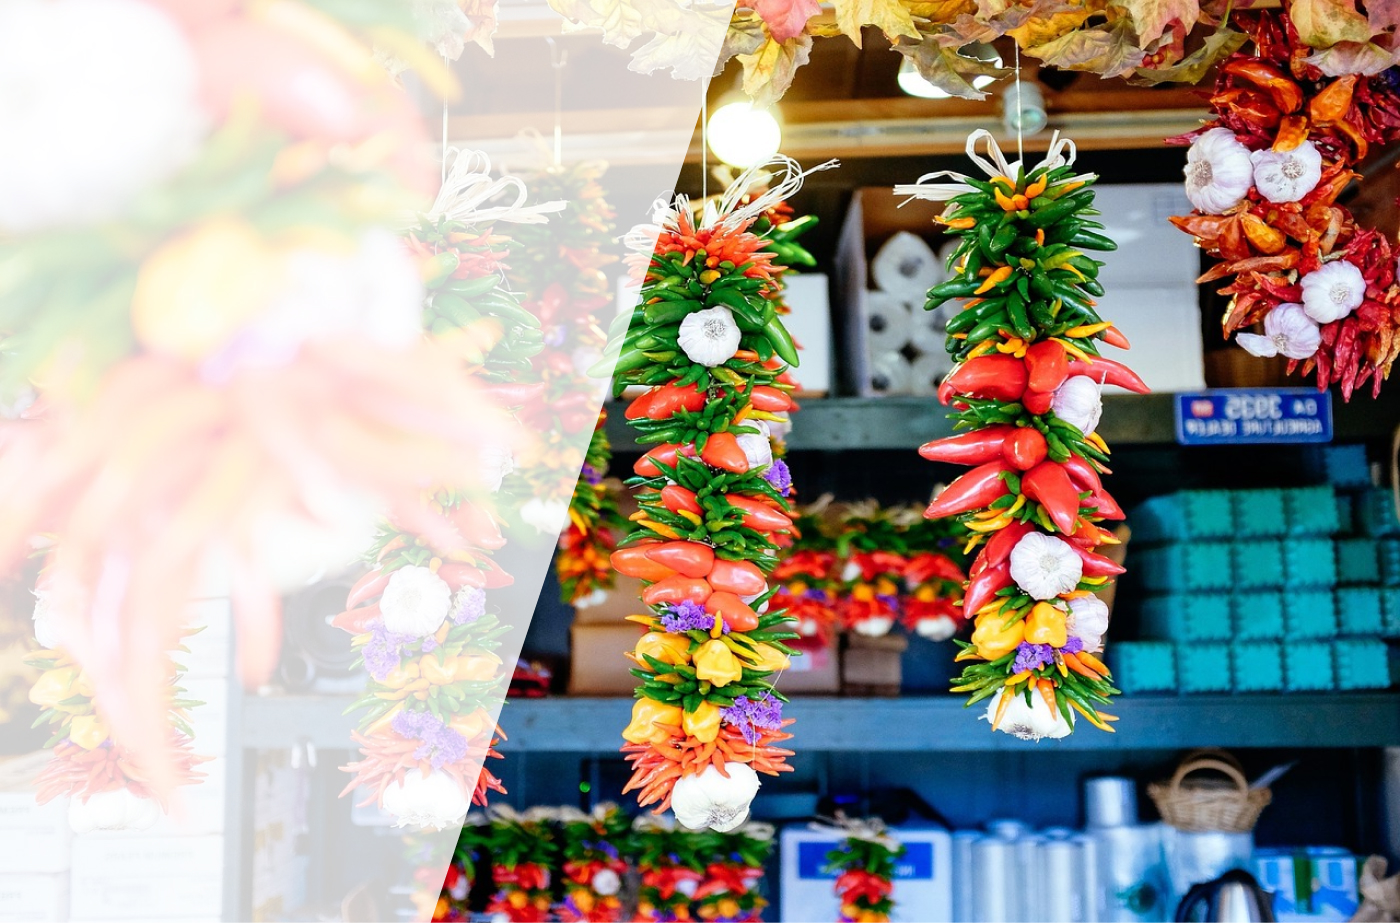
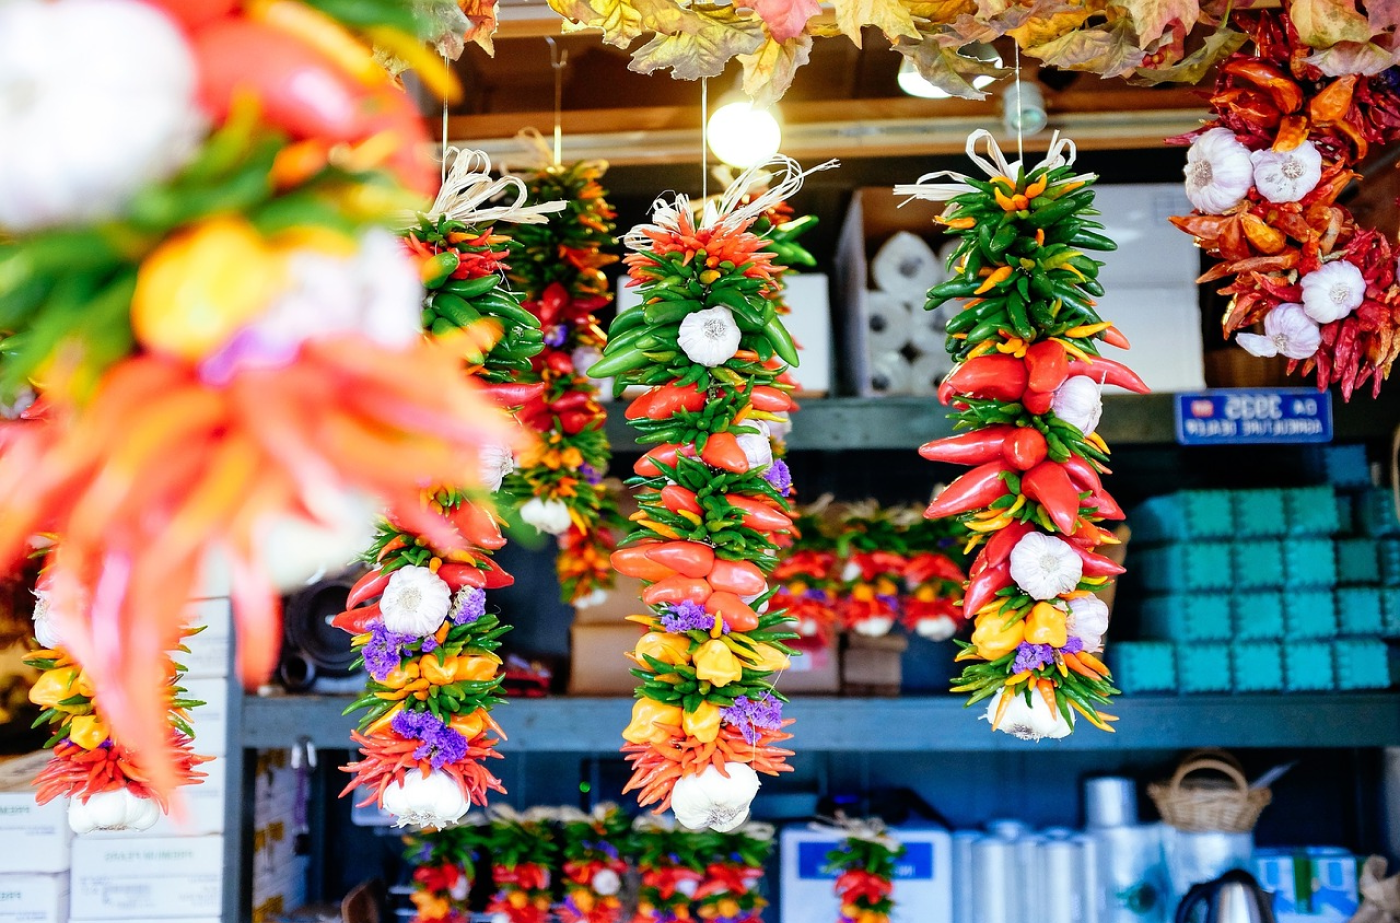
slider fix style - overlay

diff --git a/index.html b/index.html
@@ -55,8 +55,14 @@
             <section class="slides overflow-hidden">
                 <section class="slides-nav">
                     <nav class="slides-nav__nav">
-                        <button class="slides-nav__prev js-prev">Önceki</button>
-                        <button class="slides-nav__next js-next">Sonraki</button>
+                        <button class="slides-nav__prev js-prev">
+                            <span class="d-block d-sm-block d-md-none d-lg-none d-xl-none d-xxl-none"><</span>
+                            <span class="d-none d-sm-none d-md-block d-lg-block d-xl-block d-xxl-block">Önceki</span>
+                        </button>
+                        <button class="slides-nav__next js-next">
+                            <span class="d-block d-sm-block d-md-none d-lg-none d-xl-none d-xxl-none">></span>
+                            <span class="d-none d-sm-none d-md-block d-lg-block d-xl-block d-xxl-block">Sonraki</span>
+                        </button>
                     </nav>
                 </section>
                 <section class="slide is-active">
@@ -68,9 +74,10 @@
                         </figure>
                         <header class="slide__header">
                             <h2 class="slide__title">
-                                <span class="title-line"><span>Dogal</span></span>
+                                <span class="title-line"><span>Doğal</span></span>
                                 <span class="title-line"><span>Yaşam</span></span>
                             </h2>
+                            <div class="slide__overlay"></div>
                         </header>
                     </div>
                 </section>
@@ -85,6 +92,7 @@
                                 <span class="title-line"><span>Ekonomik</span></span>
                                 <span class="title-line"><span>Yaşam</span></span>
                             </h2>
+                            <div class="slide__overlay"></div>
                         </header>
                     </div>
                 </section>
@@ -100,6 +108,7 @@
                                 <span class="title-line"><span>Kamp</span></span>
                                 <span class="title-line"><span>Diyarı</span></span>
                             </h2>
+                            <div class="slide__overlay"></div>
                         </header>
                     </div>
                 </section>
@@ -114,6 +123,7 @@
                                 <span class="title-line"><span>Adrenalin</span></span>
                                 <span class="title-line"><span>Dünyası</span></span>
                             </h2>
+                            <div class="slide__overlay"></div>
                         </header>
                     </div>
                 </section>
@@ -128,6 +138,7 @@
                                 <span class="title-line"><span>Kış</span></span>
                                 <span class="title-line"><span>Sporu</span></span>
                             </h2>
+                            <div class="slide__overlay"></div>
                         </header>
                     </div>
                 </section>
@@ -142,6 +153,7 @@
                                 <span class="title-line"><span>Merkezi</span></span>
                                 <span class="title-line"><span>Konum</span></span>
                             </h2>
+                            <div class="slide__overlay"></div>
                         </header>
                     </div>
                 </section>
@@ -158,6 +170,7 @@
                                 <span class="title-line"><span>Teknolojik</span></span>
                                 <span class="title-line"><span>Üs</span></span>
                             </h2>
+                            <div class="slide__overlay"></div>
                         </header>
                     </div>
                 </section>
@@ -2132,7 +2145,7 @@
                                  alt="Tekrom Kahramanmaraş" height="30">
                         </a>
                         <div class="col p-3 d-flex flex-fill flex-wrap align-items-center">
-                            © 2003-<span class="date-now px-1">2018</span>
+                            © 2003-<span class="date-now px-1">2021</span>
                             T-Soft E-Ticaret Sistemleri.
                             <a href="https://www.tsoft.com.tr/" target="_blank" rel="nofollow" class="px-1"> T-Soft </a> bir TEKROM markasıdır.
                         </div>

diff --git a/assets/scss/style.scss b/assets/scss/style.scss
@@ -331,6 +331,12 @@ $mq-xlarge: 91em;
   align-items: center;
   height: 100%;
   color: #111;
+  @media (max-width: 768px) {
+    right: 50%;
+    transform: translateX(50%);
+    align-items: flex-end;
+    padding-bottom: 20px;
+  }
 
   @media (min-width: $mq-med) {
     right: 0;
@@ -343,6 +349,10 @@ $mq-xlarge: 91em;
     font-size: 1em;
     transform: rotate(90deg);
     transform-origin: center;
+    /* mobil and tablet screen */
+    @media (max-width: 768px) {
+      transform: none;
+    }
   }
 
   button {
@@ -356,6 +366,14 @@ $mq-xlarge: 91em;
     border: 0;
     overflow-x: hidden;
     transition: color 0.5s ease;
+
+    /* mobil and tablet screen */
+    @media (max-width: 768px) {
+      background: rgba(255, 255, 255, .8);
+      border-radius: 5px;
+      color: #000;
+      padding: 5px 10px;
+    }
 
     &:after {
       content: '';
@@ -441,7 +459,6 @@ $slide-content-size: 85%;
     display: flex;
     align-items: center;
     overflow-y: hidden;
-    transform: translateX(5%);
 
     @media (min-width: $mq-med) {
       //transform: translateX(-5%);
@@ -454,6 +471,8 @@ $slide-content-size: 85%;
     font-weight: 700;
     color: $color-dark;
     overflow-y: hidden;
+    padding-left: 5%;
+    z-index: 2;
 
     @media (min-width: $mq-med) {
       font-size: 3em;
@@ -480,6 +499,22 @@ $slide-content-size: 85%;
       .is-active &:nth-of-type(2n) span {
         transition-delay: 0.2s;
       }
+    }
+  }
+
+  &__overlay {
+    background-color: rgba(255, 255, 255, .7);
+    position: absolute;
+    height: 100%;
+    width: 50%;
+    left: 0;
+    z-index: 1;
+    clip-path:polygon(0 0, 100% 0, 70% 100%, 0% 100%);
+    -webkit-clip-path:polygon(0 0, 100% 0, 70% 100%, 0% 100%);
+    border-radius: 5px 0 0 5px;
+    /* mobil and tablet screen */
+    @media (max-width: 768px) {
+      width: 80%;
     }
   }
 

diff --git a/assets/css/style.css b/assets/css/style.css
@@ -283,6 +283,14 @@ a:focus {
   height: 100%;
   color: #111;
 }
+@media (max-width: 768px) {
+  .slides-nav {
+    right: 50%;
+    transform: translateX(50%);
+    align-items: flex-end;
+    padding-bottom: 20px;
+  }
+}
 @media (min-width: 54em) {
   .slides-nav {
     right: 0;
@@ -295,6 +303,12 @@ a:focus {
   font-size: 1em;
   transform: rotate(90deg);
   transform-origin: center;
+  /* mobil and tablet screen */
+}
+@media (max-width: 768px) {
+  .slides-nav__nav {
+    transform: none;
+  }
 }
 .slides-nav button {
   position: relative;
@@ -306,6 +320,15 @@ a:focus {
   border: 0;
   overflow-x: hidden;
   transition: color 0.5s ease;
+  /* mobil and tablet screen */
+}
+@media (max-width: 768px) {
+  .slides-nav button {
+    background: rgba(255, 255, 255, 0.8);
+    border-radius: 5px;
+    color: #000;
+    padding: 5px 10px;
+  }
 }
 .slides-nav button:after {
   content: "";
@@ -380,7 +403,6 @@ a:focus {
   display: flex;
   align-items: center;
   overflow-y: hidden;
-  transform: translateX(5%);
 }
 .slide__title {
   font-family: Montserrat, helvetica;
@@ -388,6 +410,8 @@ a:focus {
   font-weight: 700;
   color: #111;
   overflow-y: hidden;
+  padding-left: 5%;
+  z-index: 2;
 }
 @media (min-width: 54em) {
   .slide__title {
@@ -417,6 +441,23 @@ a:focus {
 }
 .is-active .slide__title .title-line:nth-of-type(2n) span {
   transition-delay: 0.2s;
+}
+.slide__overlay {
+  background-color: rgba(255, 255, 255, 0.7);
+  position: absolute;
+  height: 100%;
+  width: 50%;
+  left: 0;
+  z-index: 1;
+  clip-path: polygon(0 0, 100% 0, 70% 100%, 0% 100%);
+  -webkit-clip-path: polygon(0 0, 100% 0, 70% 100%, 0% 100%);
+  border-radius: 5px 0 0 5px;
+  /* mobil and tablet screen */
+}
+@media (max-width: 768px) {
+  .slide__overlay {
+    width: 80%;
+  }
 }
 .slide__figure {
   z-index: 7;
